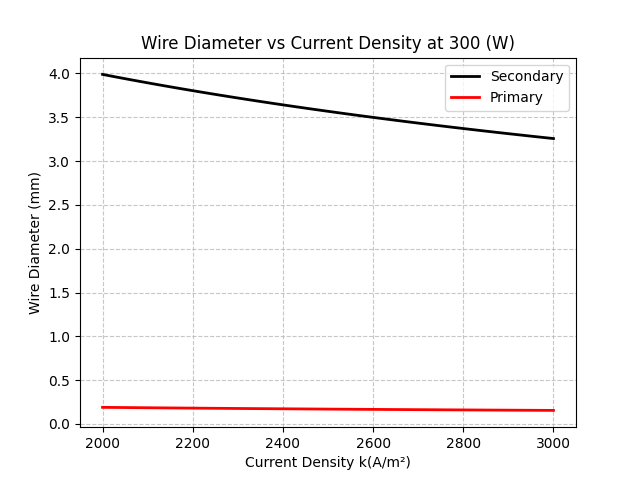
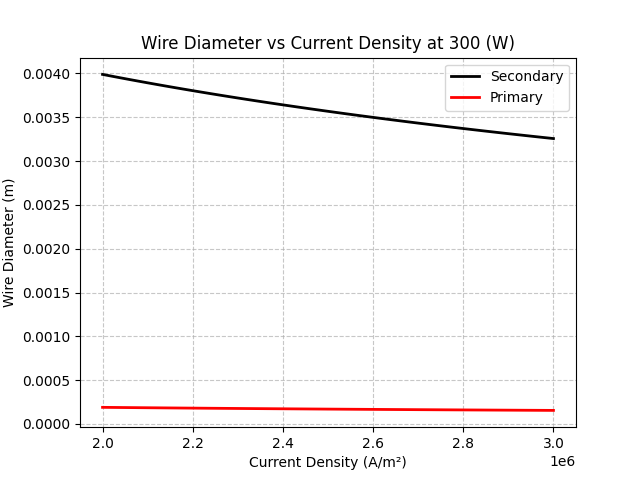
Updated figure to reflect changes in the models outputs

diff --git a/01_simulation/00_analytical/readme.md b/01_simulation/00_analytical/readme.md
@@ -32,11 +32,8 @@ transfer gain vs input voltage using the equations described in application note
 
 #### Winding Loading
 
-This analytical model is written in `Python` and uses `picounits` for parameter loading and unit validation. It calculates primary and secondary
-wire diameters across a range of current densities at a target power level, helping to inform winding design for the LLC converter.
+This analytical model is written in `Python` and uses `picounits` for parameter loading and unit validation. It calculates primary and secondary wire diameters across a range of current densities at a target power level, helping to inform winding design for the LLC converter.
 
-> [!IMPORTANT]
->
 > Wire diameters shown are bulk equivalents. Litz wire or multi-strand conductors are required in practice due to skin.
 
 <div align="center"><img src="../../05_media/01_simulation/00_analytical_models/winding_loading.png" alt="Winding loading analysis" style="max-width: 600px">
